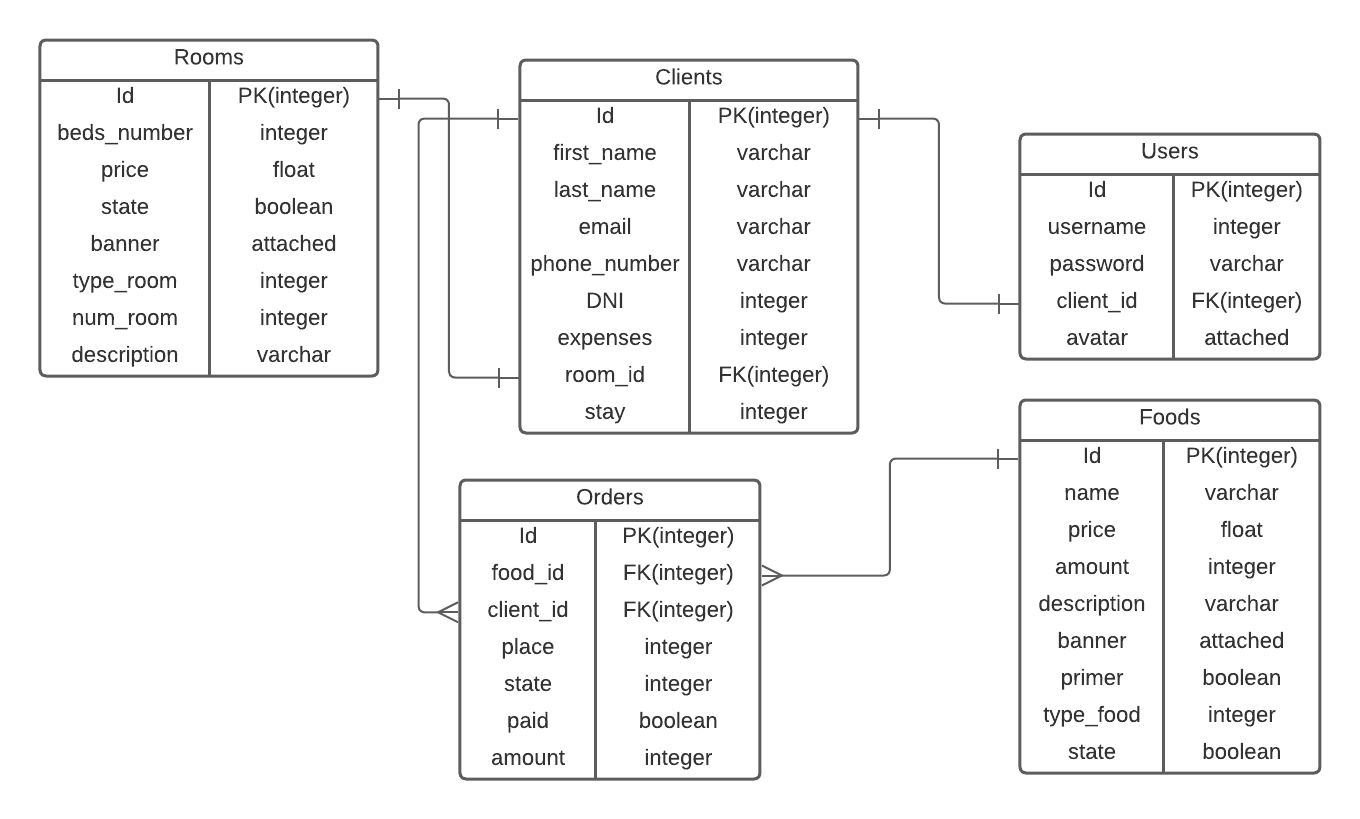
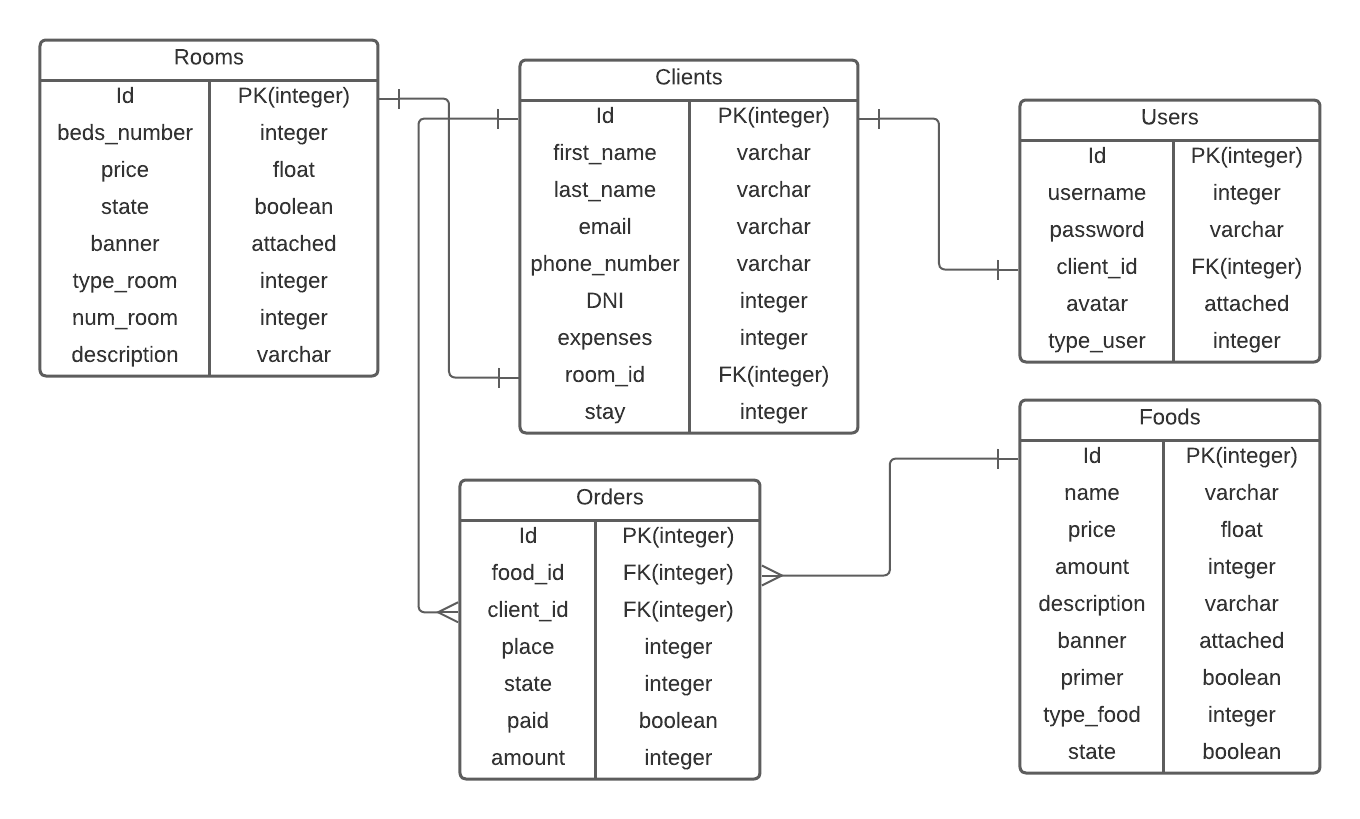
UPDATE: ERD

Changed region(s): [[0.7412, 0.1221, 0.9882, 0.4579], [0.7103, 0.3663, 0.7412, 0.3968], [0.7103, 0.3053, 0.7412, 0.3358]]

diff --git a/app/controllers/users_controller.rb b/app/controllers/users_controller.rb
@@ -41,7 +41,7 @@ class UsersController < ApplicationController
 
     # Only allow a list of trusted parameters through.
     def user_params
-      params.require(:user).permit(:username, :password_digest, :token, :client_id)
+      params.require(:user).permit(:username, :password_digest, :token, :client_id, :avatar)
     end
 
     def authorize_user
